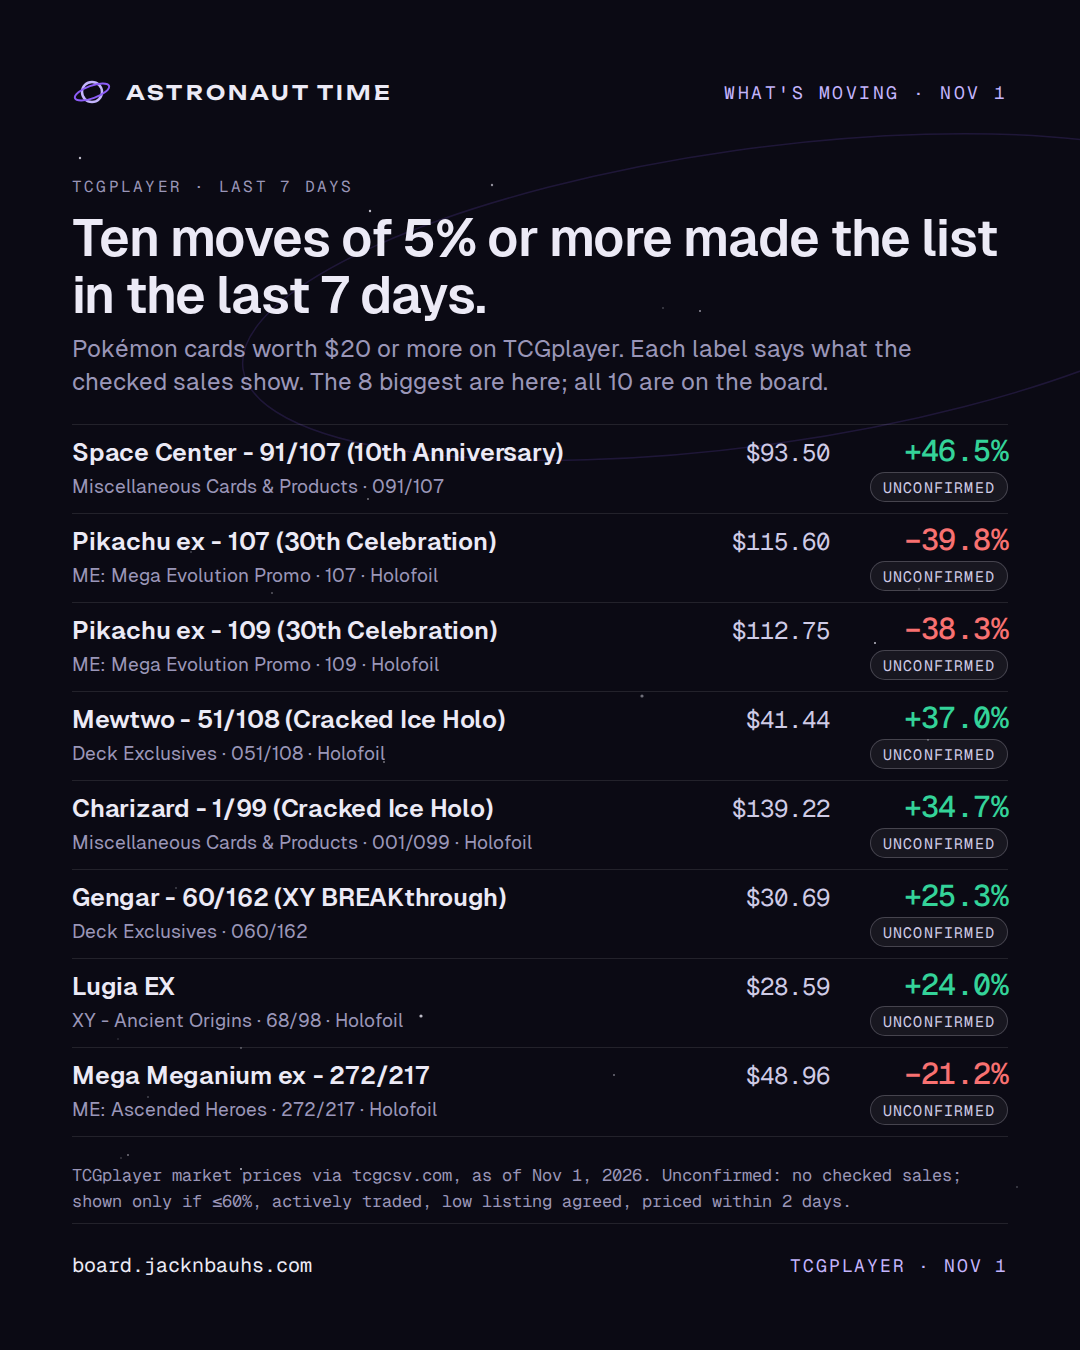
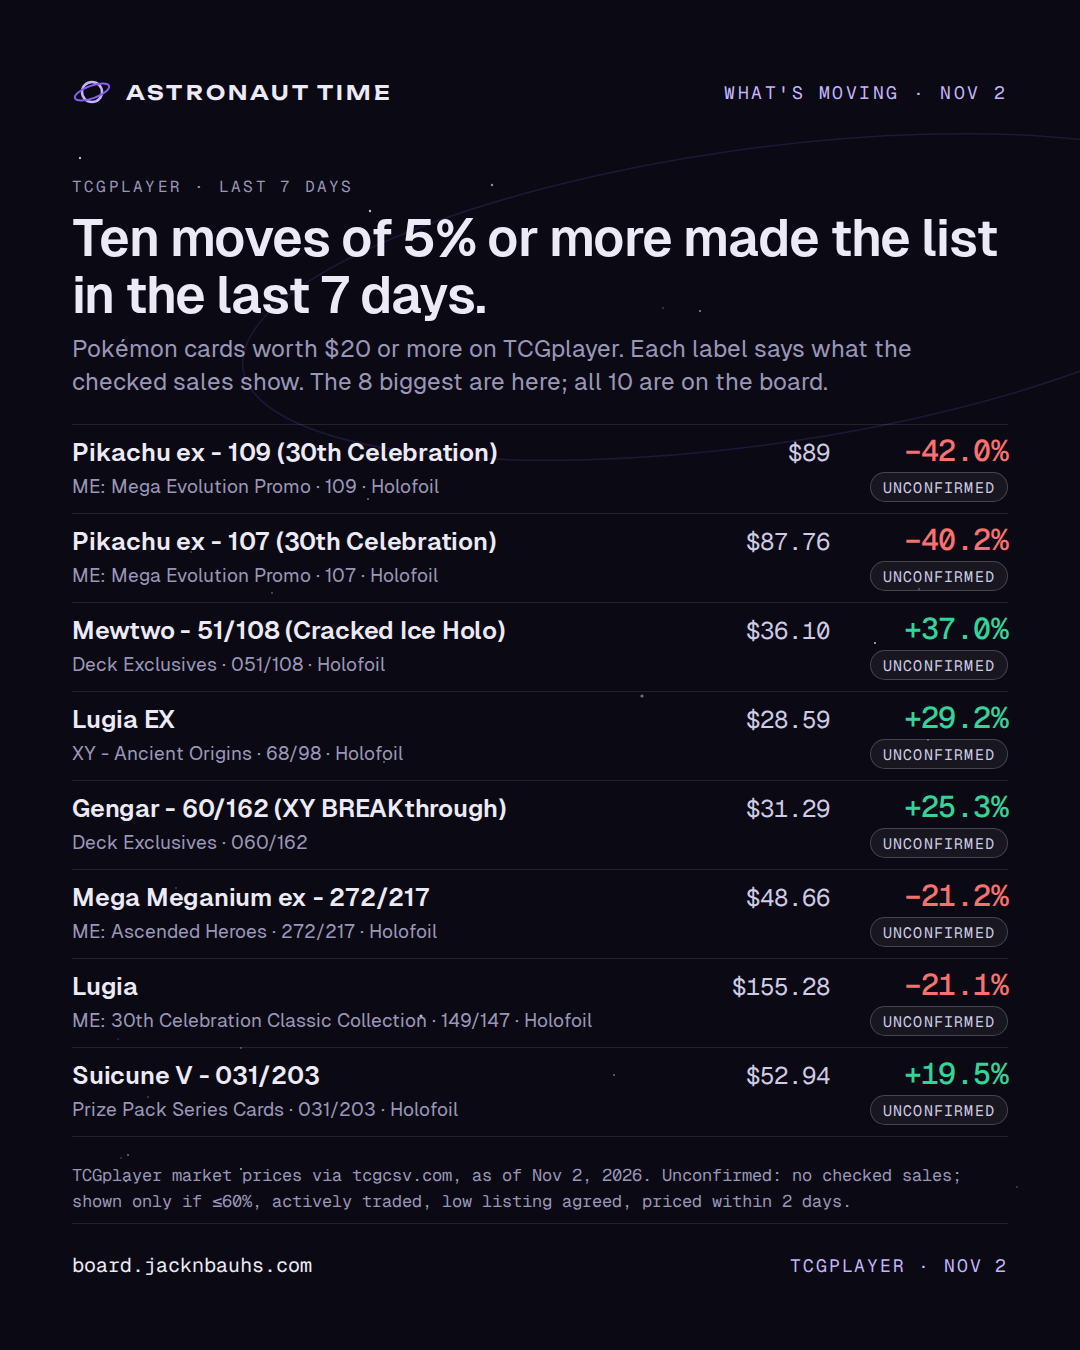
Share kit: render 2026-11-03

diff --git a/card.html b/card.html
@@ -10,14 +10,14 @@
 <meta property="og:url" content="https://board.jacknbauhs.com/card.html">
 <meta property="og:type" content="website">
 <meta property="og:site_name" content="Astronaut Time">
-<meta property="og:image" content="https://board.jacknbauhs.com/assets/og.png?v=2026-11-02">
+<meta property="og:image" content="https://board.jacknbauhs.com/assets/og.png?v=2026-11-03">
 <meta property="og:image:width" content="1200">
 <meta property="og:image:height" content="630">
 <meta property="og:image:alt" content="Mission Control by Astronaut Time: the card market, with the fake sales taken out.">
 <meta name="twitter:card" content="summary_large_image">
 <meta name="twitter:title" content="Card · Mission Control · Astronaut Time">
 <meta name="twitter:description" content="The card market, with the fake sales taken out.">
-<meta name="twitter:image" content="https://board.jacknbauhs.com/assets/og.png?v=2026-11-02">
+<meta name="twitter:image" content="https://board.jacknbauhs.com/assets/og.png?v=2026-11-03">
 <meta name="theme-color" content="#0B0A14">
 <link rel="icon" href="assets/favicon.svg" type="image/svg+xml">
 <link rel="preconnect" href="https://fonts.googleapis.com">

diff --git a/404.html b/404.html
@@ -10,14 +10,14 @@
 <meta property="og:url" content="https://board.jacknbauhs.com/">
 <meta property="og:type" content="website">
 <meta property="og:site_name" content="Astronaut Time">
-<meta property="og:image" content="https://board.jacknbauhs.com/assets/og.png?v=2026-11-02">
+<meta property="og:image" content="https://board.jacknbauhs.com/assets/og.png?v=2026-11-03">
 <meta property="og:image:width" content="1200">
 <meta property="og:image:height" content="630">
 <meta property="og:image:alt" content="Mission Control by Astronaut Time: the card market, with the fake sales taken out.">
 <meta name="twitter:card" content="summary_large_image">
 <meta name="twitter:title" content="Mission Control · Astronaut Time">
 <meta name="twitter:description" content="The card market, with the fake sales taken out.">
-<meta name="twitter:image" content="https://board.jacknbauhs.com/assets/og.png?v=2026-11-02">
+<meta name="twitter:image" content="https://board.jacknbauhs.com/assets/og.png?v=2026-11-03">
 <meta name="theme-color" content="#0B0A14">
 <link rel="icon" href="/assets/favicon.svg" type="image/svg+xml">
 <link rel="preconnect" href="https://fonts.googleapis.com">

diff --git a/index.html b/index.html
@@ -10,14 +10,14 @@
 <meta property="og:url" content="https://board.jacknbauhs.com/">
 <meta property="og:type" content="website">
 <meta property="og:site_name" content="Astronaut Time">
-<meta property="og:image" content="https://board.jacknbauhs.com/assets/og.png?v=2026-11-02">
+<meta property="og:image" content="https://board.jacknbauhs.com/assets/og.png?v=2026-11-03">
 <meta property="og:image:width" content="1200">
 <meta property="og:image:height" content="630">
 <meta property="og:image:alt" content="Mission Control by Astronaut Time: the card market, with the fake sales taken out.">
 <meta name="twitter:card" content="summary_large_image">
 <meta name="twitter:title" content="Mission Control · Astronaut Time">
 <meta name="twitter:description" content="The card market, with the fake sales taken out.">
-<meta name="twitter:image" content="https://board.jacknbauhs.com/assets/og.png?v=2026-11-02">
+<meta name="twitter:image" content="https://board.jacknbauhs.com/assets/og.png?v=2026-11-03">
 <meta name="theme-color" content="#0B0A14">
 <link rel="icon" href="assets/favicon.svg" type="image/svg+xml">
 <link rel="preconnect" href="https://fonts.googleapis.com">

diff --git a/share/out/captions.md b/share/out/captions.md
@@ -1,10 +1,10 @@
-# Captions, board data of 2026-11-02
+# Captions, board data of 2026-11-03
 
 One block per image. Caption first, alt text second. Plain facts, the source and the board link; nothing here is a buy.
 
 ## Before you post
 
-- ✅ Prices are from Nov 1, 2026.
+- ✅ Prices are from Nov 2, 2026.
 - ⚠ All 10 on the 7-day list are unconfirmed: no checked sale behind any. Keep "unconfirmed" in the post and call them price moves, not sales.
 - ⚠ All 10 on the since-yesterday list are unconfirmed: no checked sale behind any. Keep "unconfirmed" in the post and call them price moves, not sales.
 
@@ -44,8 +44,8 @@ Three calls on the record. #001: The 30th Celebration Booster Bundle's premium c
 
 Alt: Three calls on the record. Number 001: The 30th Celebration Booster Bundle's premium collapses once it ships Oct 2. The ETB holds its premium better. Number 002: Base Set Charizard PSA 10 holds its price. The graded population is closed, so the reprint can't enter it. Number 003: Raw Base Set Charizard is down 10% or more by Oct 30. The reprint lands on the raw copies.
 
-## moving-2026-W44.png
+## moving-2026-W45.png
 
-What's moving on TCGplayer, as of Nov 1, 2026. Ten moves of 5% or more made the list in the last 7 days. Space Center - 91/107 (10th Anniversary) (Miscellaneous Cards & Products · 091/107): $93.50, +46.5%, unconfirmed. Pikachu ex - 107 (30th Celebration) (ME: Mega Evolution Promo · 107 · Holofoil): $115.60, −39.8%, unconfirmed. Pikachu ex - 109 (30th Celebration) (ME: Mega Evolution Promo · 109 · Holofoil): $112.75, −38.3%, unconfirmed. Mewtwo - 51/108 (Cracked Ice Holo) (Deck Exclusives · 051/108 · Holofoil): $41.44, +37.0%, unconfirmed. Charizard - 1/99 (Cracked Ice Holo) (Miscellaneous Cards & Products · 001/099 · Holofoil): $139.22, +34.7%, unconfirmed. Gengar - 60/162 (XY BREAKthrough) (Deck Exclusives · 060/162): $30.69, +25.3%, unconfirmed. Lugia EX (XY - Ancient Origins · 68/98 · Holofoil): $28.59, +24.0%, unconfirmed. Mega Meganium ex - 272/217 (ME: Ascended Heroes · 272/217 · Holofoil): $48.96, −21.2%, unconfirmed. Unconfirmed: no checked sales; shown only if ≤60%, actively traded, low listing agreed, priced within 2 days. Source: TCGplayer market prices via tcgcsv.com, as of Nov 1, 2026. board.jacknbauhs.com
+What's moving on TCGplayer, as of Nov 2, 2026. Ten moves of 5% or more made the list in the last 7 days. Pikachu ex - 109 (30th Celebration) (ME: Mega Evolution Promo · 109 · Holofoil): $89, −42.0%, unconfirmed. Pikachu ex - 107 (30th Celebration) (ME: Mega Evolution Promo · 107 · Holofoil): $87.76, −40.2%, unconfirmed. Mewtwo - 51/108 (Cracked Ice Holo) (Deck Exclusives · 051/108 · Holofoil): $36.10, +37.0%, unconfirmed. Lugia EX (XY - Ancient Origins · 68/98 · Holofoil): $28.59, +29.2%, unconfirmed. Gengar - 60/162 (XY BREAKthrough) (Deck Exclusives · 060/162): $31.29, +25.3%, unconfirmed. Mega Meganium ex - 272/217 (ME: Ascended Heroes · 272/217 · Holofoil): $48.66, −21.2%, unconfirmed. Lugia (ME: 30th Celebration Classic Collection · 149/147 · Holofoil): $155.28, −21.1%, unconfirmed. Suicune V - 031/203 (Prize Pack Series Cards · 031/203 · Holofoil): $52.94, +19.5%, unconfirmed. Unconfirmed: no checked sales; shown only if ≤60%, actively traded, low listing agreed, priced within 2 days. Source: TCGplayer market prices via tcgcsv.com, as of Nov 2, 2026. board.jacknbauhs.com
 
 Alt: What's moving: the 8 biggest of the 10 TCGplayer moves on the list in the last 7 days, each with its market price, its change and the label for what checked sales show.
